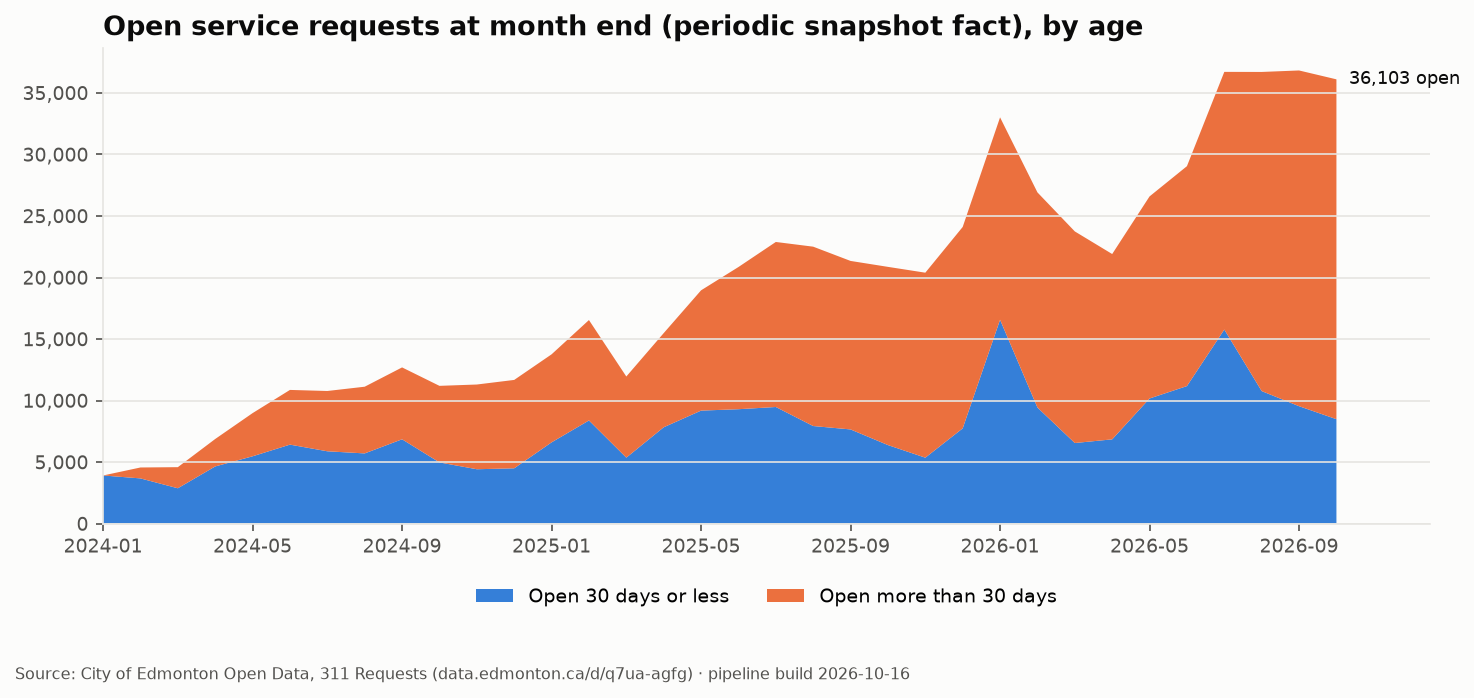
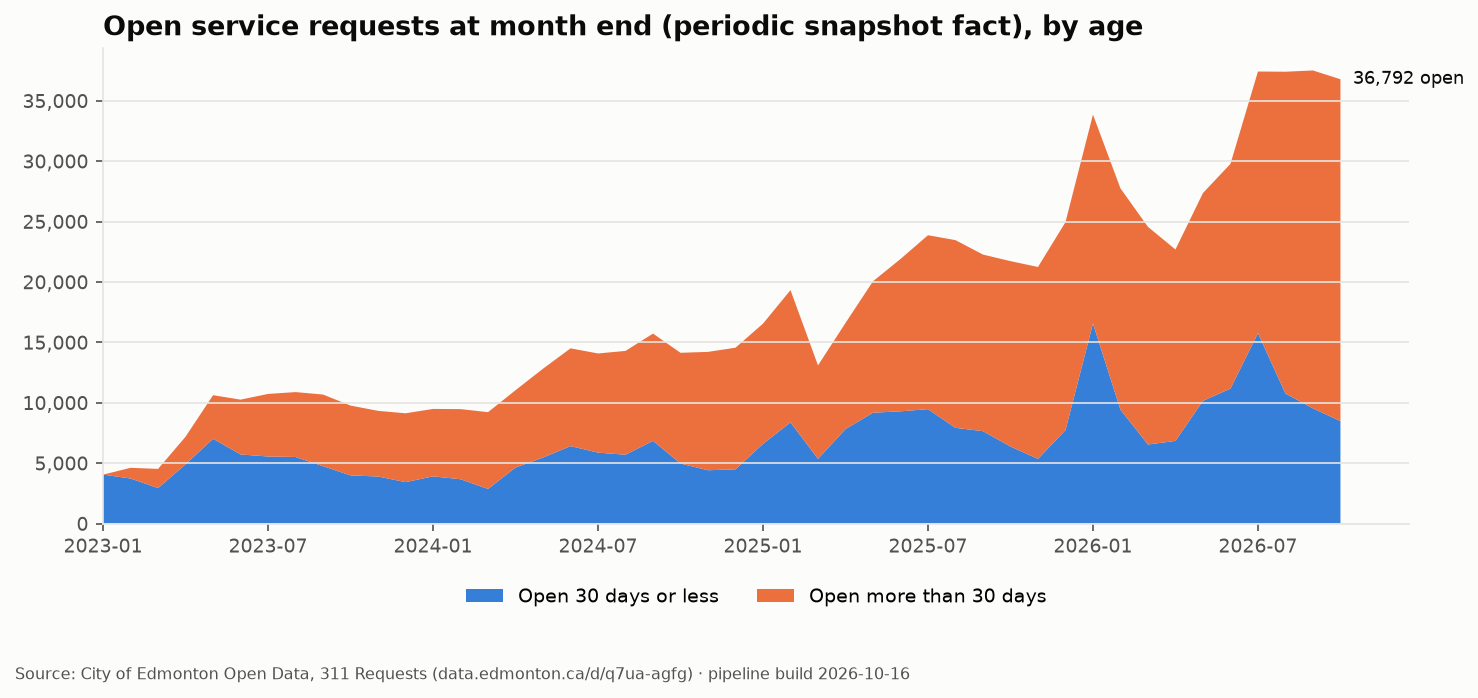
Refresh preview charts and latest numbers from live 311 data (2026-10-16)

diff --git a/docs/latest_stats.md b/docs/latest_stats.md
@@ -4,26 +4,38 @@ Generated by the scheduled refresh workflow from the live dataset (mode: full). 
 
 ```
 Headline numbers
-  Requests in data            : 2,568,376  (2024-01-01 to 2026-10-13)
-  Service requests (referred) : 1,104,400
-  Open service requests       : 36,103
-  SLA met (illustrative)      : 84.4%
-  Median resolution (SR)      : 1.5 days
-  Mobile App share            : 22.9%
+  Requests in data            : 3,478,749  (2023-01-01 to 2026-10-13)
+  Service requests (referred) : 1,454,525
+  Open service requests       : 36,792
+  SLA met (illustrative)      : 85.6%
+  Median resolution (SR)      : 1.2 days
+  Mobile App share            : 20.9%
 
 Top service-request categories
-    175,235  Public Parking Complaints (Parking Enforcement)  median 0.3 days
-     88,864  Bylaw Complaints (Community Standards - Muni. Enforcement)  median 17.7 days
-     75,438  Collection and Disposal Services (Waste)  median 0.9 days
-     48,360  Monthly Payment Plan (TAX - Taxation)  median 0.6 days
-     48,059  Maintenance - Snow and Ice (Roadway Maintenance)  median 1.6 days
-     36,683  Potholes (Roadway Maintenance)  median 1.6 days
-     34,523  Encampments (Park Rangers)  median 3.4 days
-     27,333  Traffic Signals and Street Lights (Traffic)  median 3.7 days
-     27,044  Litter (Roadway Maintenance)  median 2.9 days
-     19,956  Animal Complaints (Animal Control)  median 3.8 days
+    217,080  Public Parking Complaints (Parking Enforcement)  median 0.3 days
+    111,487  Bylaw Complaints (Community Standards - Muni. Enforcement)  median 17.1 days
+     94,659  Collection and Disposal Services (Waste)  median 0.8 days
+     72,621  Monthly Payment Plan (TAX - Taxation)  median 0.8 days
+     58,746  Maintenance - Snow and Ice (Roadway Maintenance)  median 1.4 days
+     51,744  Encampments (Park Rangers)  median 2.6 days
+     42,624  Potholes (Roadway Maintenance)  median 1.8 days
+     38,802  Traffic Signals and Street Lights (Traffic)  median 4.0 days
+     34,841  Litter (Roadway Maintenance)  median 2.7 days
+     27,863  Animal Complaints (Animal Control)  median 3.0 days
 
 Monthly volume
+  2023-01     76,571 total     31,722 service requests
+  2023-02     59,145 total     22,596 service requests
+  2023-03     70,602 total     24,863 service requests
+  2023-04     68,790 total     26,706 service requests
+  2023-05     92,392 total     35,499 service requests
+  2023-06    103,222 total     39,826 service requests
+  2023-07     85,722 total     32,654 service requests
+  2023-08     87,156 total     32,903 service requests
+  2023-09     76,154 total     29,882 service requests
+  2023-10     70,608 total     27,462 service requests
+  2023-11     63,557 total     24,821 service requests
+  2023-12     56,454 total     21,191 service requests
   2024-01     65,132 total     25,864 service requests
   2024-02     58,012 total     22,946 service requests
   2024-03     64,683 total     24,101 service requests
